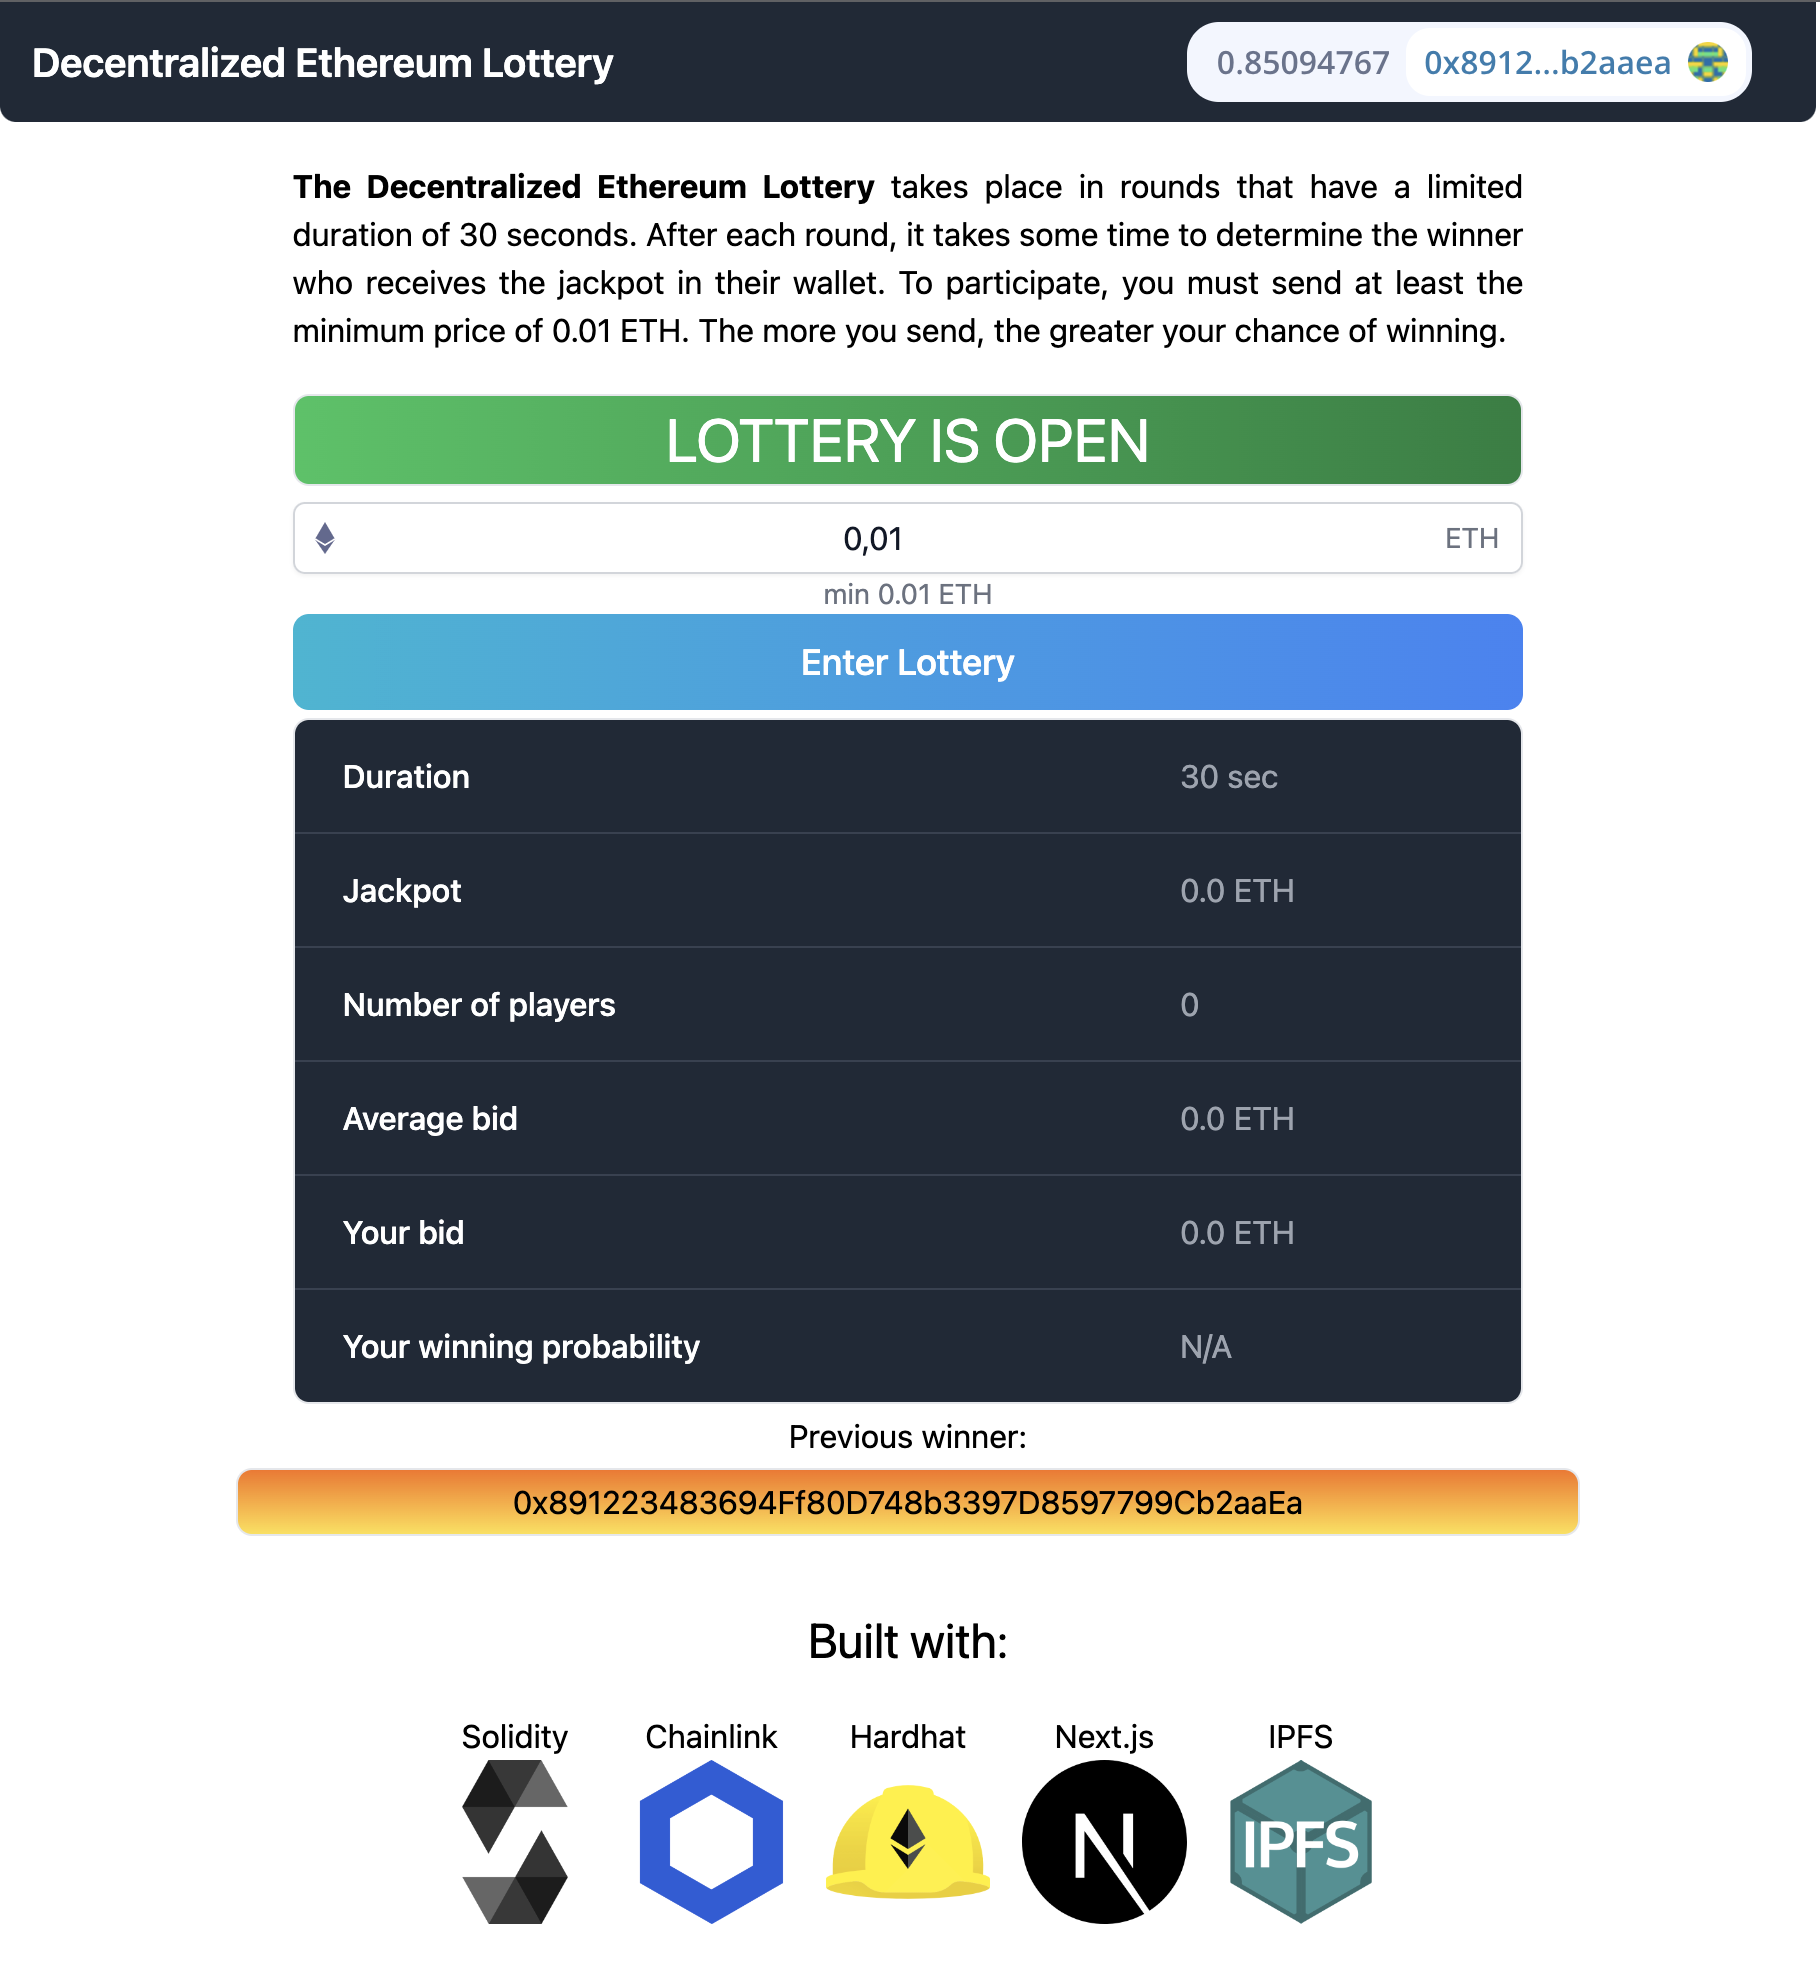
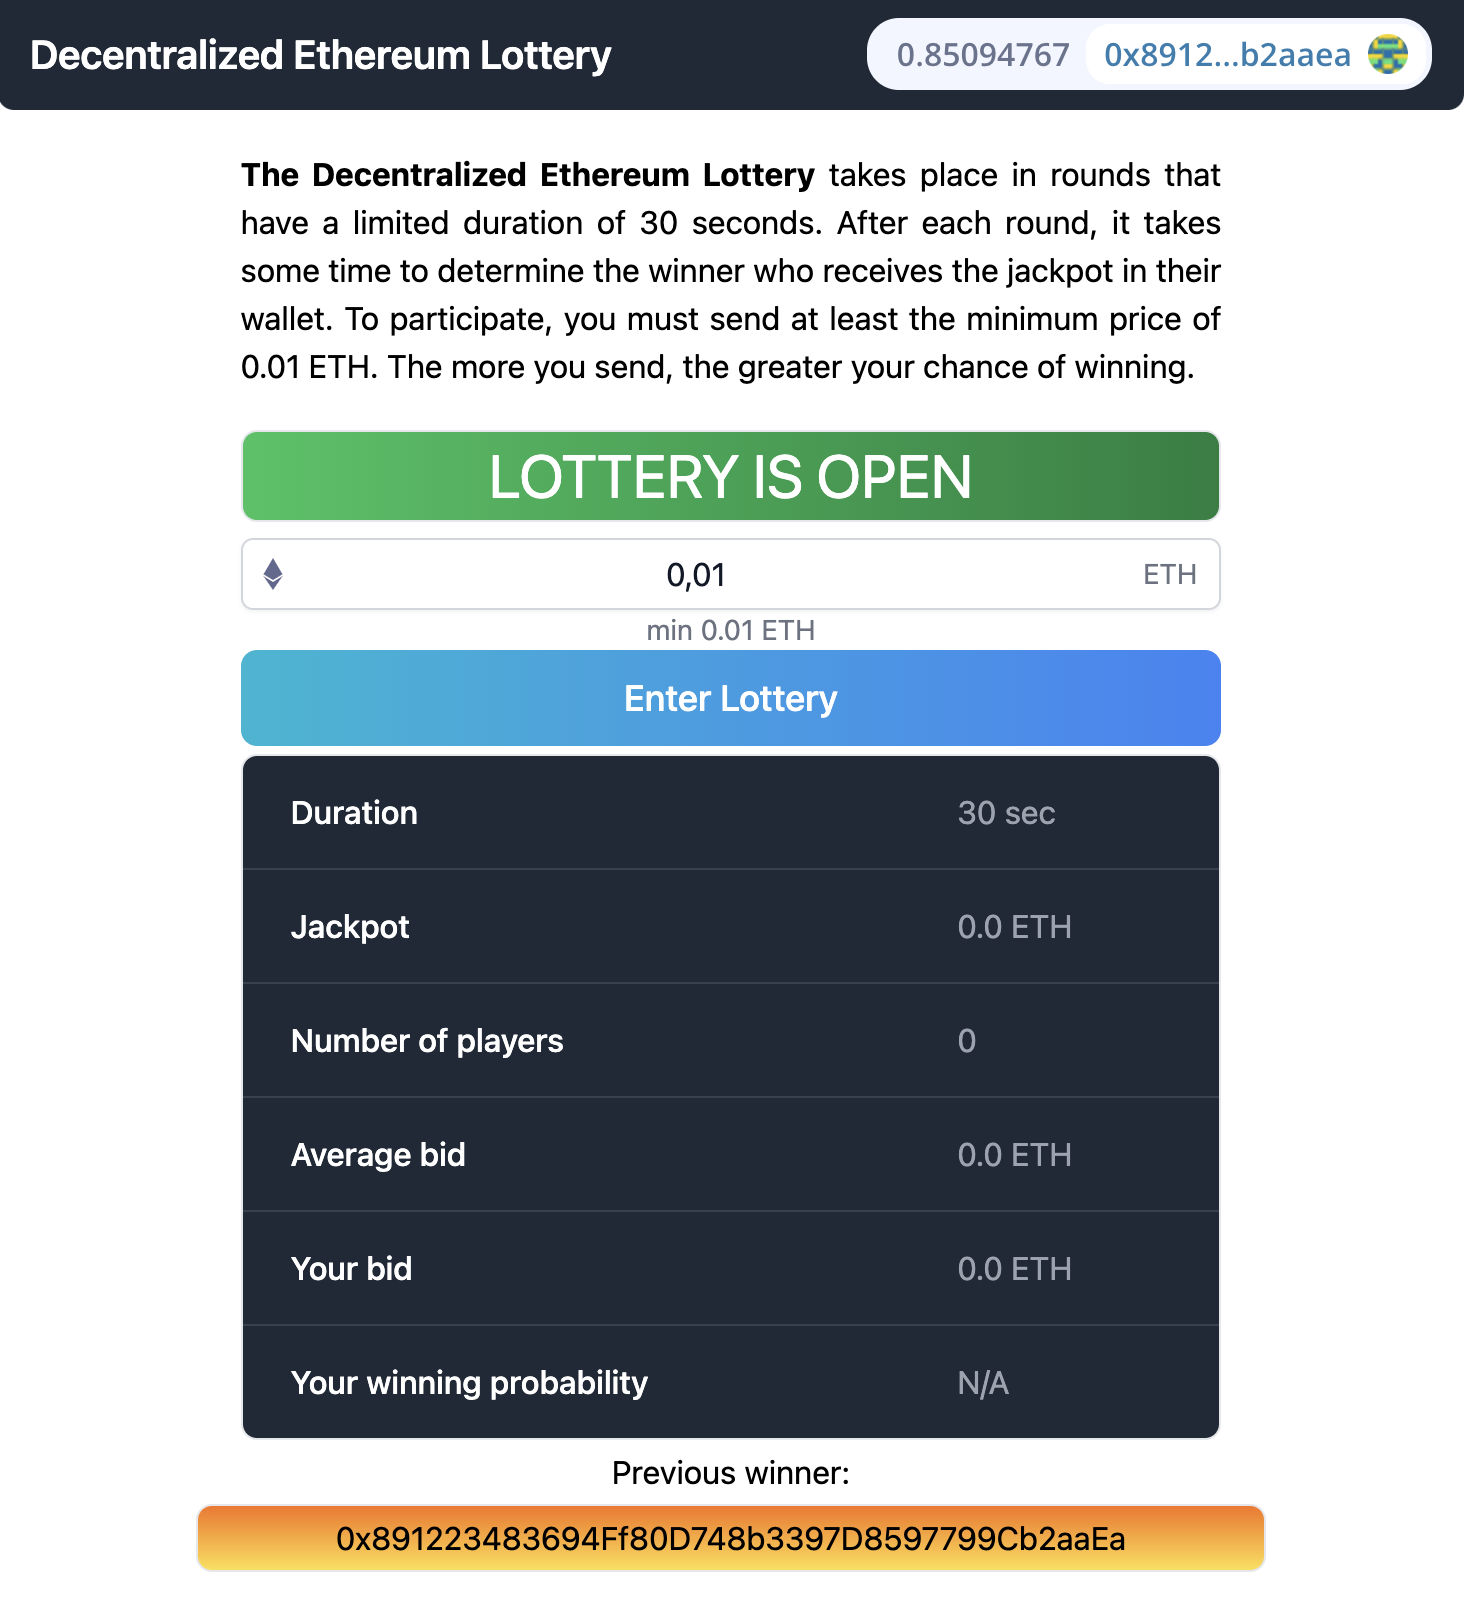
Update README.md

diff --git a/README.md b/README.md
@@ -2,14 +2,13 @@
 
 This is a frontend part of Decentralized Ethereum Lottery project. You can find the other part in the [Hardhat Repo](https://github.com/v7m/decentralized-lottery-hardhat).
 
-
 Ethereum Smart Contract Address (Sepolia chain): [0xe59A431759a5a3C270Bba717C1E3dA350f090df4](https://sepolia.etherscan.io/address/0xe59A431759a5a3C270Bba717C1E3dA350f090df4)
 
-[Deployed App](https://fancy-dream-3458.on.fleek.co/)
+Deployed App: https://decentralized-eth-lottery.on.fleek.co/
 
-[Deployed App IPFS](ipfs://Qme4KacFx21y6pYuTC6veAU2usryXB3fNWqLkX3a2hMvDe)
+Deployed App IPFS: `ipfs://Qme4KacFx21y6pYuTC6veAU2usryXB3fNWqLkX3a2hMvDe`
 
-<img src="img/readme-app.png" alt="image" width="500" height="auto">
+<img src="img/readme-app.png" alt="image" width="700" height="auto">
 
 ## Built with:
 - Solidity
